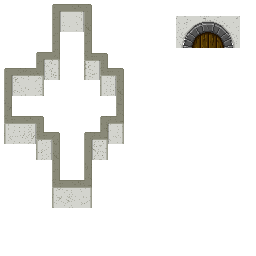
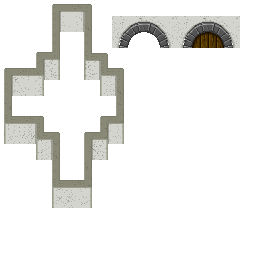
link system: bug fixes, added linked wooden door for stucco house

Changed region(s): [[0.4375, 0.0625, 0.6875, 0.1875]]

diff --git a/js/worldGen.js b/js/worldGen.js
@@ -2744,7 +2744,7 @@ class WorldGen {
     static house2 = {
         tag: "house2",
         columns: 12,
-        rows: 15,
+        rows: 17,
         offx: 20,
         offy: 10,
         autoArea: true,
@@ -2755,19 +2755,24 @@ class WorldGen {
                     "0000","0000","0000","0000","0000","0000","0000","0000","0000","0000","0000","0000",
                     "0000","0000","0000","0000","0000","0000","0000","0000","0000","0000","0000","0000",
                     "0000","0000","0000","0000","0000","0000","0000","0000","0000","0000","0000","0000",
-                    "0004","0004","0004","0004","0004","0004","0004","0004","0004","0004","0004","0004",
-                    "0004","0004","0004","0004","0004","0004","0004","0004","0004","0004","0004","0004",
-                    "0004","0004","0004","0004","0004","0004","0004","0004","0004","0004","0004","0004",
-                    "0004","0004","0004","0004","0004","0004","0004","0004","0004","0004","0004","0004",
-                    "0004","0004","0004","0004","0004","0004","0004","0004","0004","0004","0004","0004",
-                    "0004","0004","0004","0004","0004","0004","0004","0004","0004","0004","0004","0004",
-                    "0004","0004","0004","0004","0004","0004","0004","0004","0004","0004","0004","0004",
-                    "0004","0004","0004","0004","0004","0004","0004","0004","0004","0004","0004","0004",
-                    "0004","0004","0004","0004","0004","0004","0004","0004","0004","0004","0004","0004",
-                    "0004","0004","0004","0004","0004","0004","0004","0004","0004","0004","0004","0004",
                     "0000","0000","0000","0000","0000","0000","0000","0000","0000","0000","0000","0000",
+                    "0000","0000","0000","0000","0000","0000","0000","0000","0000","0000","0000","0000",
+                    "0000","0000","0000","0000","0000","0000","0000","0000","0000","0000","0000","0000",
+                    "0004","0004","0004","0004","0004","0004","0004","0004","0004","0004","0004","0004",
+                    "0004","0004","0004","0004","0004","0004","0004","0004","0004","0004","0004","0004",
+                    "0004","0004","0004","0004","0004","0004","0004","0004","0004","0004","0004","0004",
+                    "0004","0004","0004","0004","0004","0004","0004","0004","0004","0004","0004","0004",
+                    "0004","0004","0004","0004","0004","0004","0004","0004","0004","0004","0004","0004",
+                    "0004","0004","0004","0004","0004","0004","0004","0004","0004","0004","0004","0004",
+                    "0004","0004","0004","0004","0004","0004","0004","0004","0004","0004","0004","0004",
+                    "0004","0004","0004","0004","0004","0004","0004","0004","0004","0004","0004","0004",
+                    "0004","0004","0004","0004","0004","0004","0004","0004","0004","0004","0004","0004",
+                    "0004","0004","0004","0004","0004","0004","0004","0004","0004","0004","0004","0004",
                 ],
                 bgo: [
+                    "0000","0000","0000","0000","0000","0000","0000","0000","0000","0000","0000","0000",
+                    "0000","0000","0000","0000","0000","0000","0000","0000","0000","0000","0000","0000",
+                    "0000","0000","0000","0000","0000","0000","0000","0000","0000","0000","0000","0000",
                     "0000","0000","0000","0000","0000","0000","0000","0000","0000","0000","0000","0000",
                     "0000","0000","0000","0000","0000","0000","0000","0000","0000","0000","0000","0000",
                     "0000","0000","0000","0000","0000","0000","0000","0000","0000","0000","0000","0000",
@@ -2782,23 +2787,24 @@ class WorldGen {
                     "0X2g","0000","0000","0000","0000","0000","0000","0000","0000","0000","0000","0X2f",
                     "0X2g","0000","0000","0000","0000","0000","0000","0000","0000","0000","0000","0X2f",
                     "0X2i","0X2d","0X2d","0X2d","0X2d","0X2d","0X2d","0X2d","0X2d","0X2d","0X2d","0X2h",
-                    "0000","0000","0000","0000","0000","0000","0000","0000","0000","0000","0000","0000",
                 ],
                 fg: [
                     "0000","0000","0000","0000","0000","0000","0000","0000","0000","0000","0000","0000",
                     "0000","0000","0000","0000","0000","0000","0000","0000","0000","0000","0000","0000",
                     "0000","0000","0000","0000","0000","0000","0000","0000","0000","0000","0000","0000",
-                    "0000","0X5a","0X5b","0X5b","0X5b","0X5b","0X5b","0X5b","0X5b","0X5b","0X5c","0000",
+                    "0000","0000","0000","0000","0000","0000","0000","0000","0000","0000","0000","0000",
+                    "0000","0000","0000","0000","0000","0000","0000","0000","0000","0000","0000","0000",
+                    "0000","0X6a","0X6b","0X6b","0X6b","0X6b","0X6b","0X6b","0X6b","0X6b","0X6c","0000",
+                    "0000","0X6d","0X6e","0X6e","0X6e","0X6e","0X6e","0X6e","0X6e","0X6e","0X6f","0000",
                     "0000","0X5d","0X5e","0X5e","0X5e","0X5e","0X5e","0X5e","0X5e","0X5e","0X5f","0000",
                     "0000","0X5g","0000","0000","0000","0000","0000","0000","0000","0000","0X5h","0000",
                     "0000","0X5g","0000","0000","0000","0o07","0000","0000","0o03","0000","0X5h","0000",
                     "0000","0X5g","0o04","0000","0000","0000","0000","0000","0000","0000","0X5h","0000",
                     "0000","0X5g","0000","0000","0000","0000","0000","0000","0o02","0000","0X5h","0000",
                     "0000","0X5g","0000","0c03","0000","0000","0000","0000","0000","0000","0X5h","0000",
-                    "0000","0X5g","0000","0000","0000","0000","0000","0000","0000","0000","0X5g","0000",
-                    "0000","0X5j","0X5b","0000","0000","0000","0000","0X5b","0X5b","0X5b","0X5i","0000",
+                    "0000","0X6j","0X6b","0000","0000","0000","0000","0X6b","0X6b","0X6b","0X6i","0000",
+                    "0000","0X6m","0X6e","0000","0000","0000","0000","0X6e","0X6e","0X6e","0X6l","0000",
                     "0000","0X5m","0X5e","0000","0o01","0000","0000","0X5e","0X5e","0X5e","0X5l","0000",
-                    "0000","0000","0000","0000","0000","0000","0000","0000","0000","0000","0000","0000",
                     "0000","0000","0000","0000","0000","0000","0000","0000","0000","0000","0000","0000",
                 ],
             },
@@ -2807,16 +2813,37 @@ class WorldGen {
                     "0000","0000","0000","0000","0000","0000","0000","0000","0000","0000","0000","0000",
                     "0000","0000","0000","0000","0000","0000","0000","0000","0000","0000","0000","0000",
                     "0000","0000","0000","0000","0000","0000","0000","0000","0000","0000","0000","0000",
-                    "0000","0X6a","0X6b","0X6b","0X6b","0X6b","0X6b","0X6b","0X6b","0X6b","0X6c","0000",
-                    "0000","0X6d","0X6e","0X6e","0X6e","0X6e","0X6e","0X6e","0X6e","0X6e","0X6f","0000",
-                    "0000","0X6g","0000","0000","0000","0000","0000","0000","0000","0000","0X6g","0000",
-                    "0000","0X6g","0000","0000","0000","0000","0000","0000","0000","0000","0X6g","0000",
-                    "0000","0X6g","0000","0000","0000","0000","0000","0000","0000","0000","0X6g","0000",
-                    "0000","0X6g","0000","0000","0000","0000","0000","0000","0000","0000","0X6g","0000",
-                    "0000","0X6g","0000","0000","0000","0000","0000","0000","0000","0000","0X6g","0000",
-                    "0000","0X6g","0000","0000","0000","0000","0000","0000","0000","0000","0X6g","0000",
-                    "0000","0X6j","0X6b","0000","0000","0000","0000","0X6b","0X6b","0X6b","0X6i","0000",
-                    "0000","0X6m","0X6e","0000","0000","0000","0000","0X6e","0X6e","0X6e","0X6l","0000",
+                    "0000","0000","0000","0000","0000","0000","0000","0000","0000","0000","0000","0000",
+                    "0000","0000","0000","0000","0000","0000","0000","0000","0000","0000","0000","0000",
+                    "0000","0000","0000","0000","0000","0000","0000","0000","0000","0000","0000","0000",
+                    "0000","0000","0000","0000","0000","0000","0000","0000","0000","0000","0000","0000",
+                    "0000","0000","0000","0000","0000","0000","0000","0000","0000","0000","0000","0000",
+                    "0000","0000","0000","0000","0000","0000","0000","0000","0000","0000","0000","0000",
+                    "0000","0000","0000","0000","0000","0000","0000","0000","0000","0000","0000","0000",
+                    "0000","0000","0000","0000","0000","0X6e","0X6e","0000","0000","0000","0000","0000",
+                    "0000","0000","0000","0000","0X6e","0X6e","0X6e","0X6e","0000","0000","0000","0000",
+                    "0000","0000","0000","0X6e","0X6e","0X6e","0X6e","0X6e","0X6e","0000","0000","0000",
+                    "0000","0000","0X6e","0000","0000","0000","0000","0X6e","0X6e","0X6e","0000","0000",
+                    "0000","0X6m","0X6e","0005","0000","0000","0000","0X6e","0X6e","0X6e","0X6l","0000",
+                    "0000","0000","0000","0000","0000","0000","0000","0000","0000","0000","0000","0000",
+                    "0000","0000","0000","0000","0000","0000","0000","0000","0000","0000","0000","0000",
+                ],
+                fgo: [
+                    "0000","0000","0000","0000","0000","0rla","0rra","0000","0000","0000","0000","0000",
+                    "0000","0000","0000","0000","0rla","0rlc","0rrb","0rra","0000","0000","0000","0000",
+                    "0000","0000","0000","0rla","0rlc","0rlf","0rrc","0rrb","0rra","0000","0000","0000",
+                    "0000","0000","0rla","0rlc","0rlf","0rlf","0rrc","0rrc","0rrb","0rra","0000","0000",
+                    "0000","0rla","0rlc","0rlf","0rlf","0rlf","0rrc","0rrc","0rrc","0rrb","0rra","0000",
+                    "0rla","0rlc","0rlf","0rlf","0rlf","0rlf","0rrc","0rrc","0rrc","0rrc","0rrb","0rra",
+                    "0rle","0rlf","0rlf","0rlf","0rlf","0rlf","0rrc","0rrc","0rrc","0rrc","0rrc","0rrd",
+                    "0rle","0rlf","0rlf","0rlf","0rlf","0rlf","0rrc","0rrc","0rrc","0rrc","0rrc","0rrd",
+                    "0rle","0rlf","0rlf","0rlf","0rlf","0rlf","0rrc","0rrc","0rrc","0rrc","0rrc","0rrd",
+                    "0rle","0rlf","0rlf","0rlf","0rlf","0rlo","0rrk","0rrc","0rrc","0rrc","0rrc","0rrd",
+                    "0rle","0rlf","0rlf","0rlf","0rlo","0rlr","0rrl","0rrk","0rrc","0rrc","0rrc","0rrd",
+                    "0rle","0rlf","0rlf","0rlo","0rlr","0000","0000","0rrl","0rrk","0rrc","0rrc","0rrd",
+                    "0rle","0rlf","0rlo","0rlr","0000","0000","0000","0000","0rrl","0rrk","0rrc","0rrd",
+                    "0rle","0rlo","0rlr","0000","0000","0000","0000","0000","0000","0rrl","0rrk","0rrd",
+                    "0rlq","0rlr","0000","0000","0000","0000","0000","0000","0000","0000","0rrl","0rrm",
                     "0000","0000","0000","0000","0000","0000","0000","0000","0000","0000","0000","0000",
                     "0000","0000","0000","0000","0000","0000","0000","0000","0000","0000","0000","0000",
                 ],

diff --git a/js/linkSystem.js b/js/linkSystem.js
@@ -7,8 +7,8 @@ import { System }               from "./base/system.js";
  */
 class LinkSystem extends System {
     cpre(spec) {
-        spec.iterateTTL = spec.iterateTTL || 200;
-        spec.fixedPredicate = spec.fixedPredicate || ((e) => e.srcLinkTag || e.dstLinkTag);
+        spec.iterateTTL = spec.iterateTTL || 0;
+        spec.fixedPredicate = spec.fixedPredicate || ((e) => (e.linkSrcTag || e.linkDstTag));
         super.cpre(spec);
     }
     cpost(spec) {
@@ -20,11 +20,12 @@ class LinkSystem extends System {
     // METHODS -------------------------------------------------------------
     iterate(ctx, e) {
         // handle source link
-        if (e.srcLinkTag) {
-            if (!e.srcLinkTag in this.states || this.states[e.gid] !== e.state) {
-                this.states[e.srcLinkTag] = e.state;
+        if (e.linkSrcTag) {
+            if (!e.linkSrcTag in this.states || this.states[e.linkSrcTag] !== e.state) {
+                if (this.dbg) console.log(`found link src: ${e} for tag: ${e.linkSrcTag}`);
+                this.states[e.linkSrcTag] = e.state;
                 // push state updates to links
-                targets = this.targets[e.srcLinkTag];
+                let targets = this.targets[e.linkSrcTag] || [];
                 for (const target of targets) {
                     target.state = e.state;
                     target.updated = true;
@@ -32,14 +33,17 @@ class LinkSystem extends System {
             }
         }
         // handle dest link
-        if (e.dstLinkTag) {
-            if (!e.dstLinkTag in this.targets) {
-                this.targets[e.dstLinkTag] = [];
+        if (e.linkDstTag) {
+            let targets = this.targets[e.linkDstTag];
+            if (!targets) {
+                targets = [];
+                this.targets[e.linkDstTag] = targets;
             }
-            if (!e in this.targets[e.dstLinkTag]) {
-                this.targets[e.dstLinkTag].push(e);
-                if (e.dstLinkTag in this.states) {
-                    e.state = this.states[e.dstLinkTag];
+            if (!targets.includes(e)) {
+                if (this.dbg) console.log(`found link dst: ${e} for tag: ${e.linkDstTag}`);
+                targets.push(e);
+                if (e.linkDstTag in this.states) {
+                    e.state = this.states[e.linkDstTag];
                 }
             }
         }

diff --git a/js/sparkAssets.js b/js/sparkAssets.js
@@ -284,7 +284,8 @@ class SparkAssets {
             ]},
 
             { src: "img/stuccoWalls2.png", loader: "Sheet", refs: [
-                {tag: "woodDoor.top", cls: "Sprite", width: 16*4, height: 16*2, x: 16*11, y: 16*1 },
+                {tag: "woodDoor.top.open", cls: "Sprite", width: 16*4, height: 16*2, x: 16*7, y: 16*1 },
+                {tag: "woodDoor.top.close", cls: "Sprite", width: 16*4, height: 16*2, x: 16*11, y: 16*1 },
             ]},
 
             { tag: "sparkbase", 
@@ -310,6 +311,15 @@ class SparkAssets {
                 animations: { 
                     [ModelState.close]: { cls: "Media", tag: "woodDoor.close" }, 
                     [ModelState.open]: { cls: "Media", tag: "woodDoor.open" }, 
+                },
+            },
+
+            { tag: "woodDoor.top", 
+                cls: "Animator", 
+                animations: { 
+                    [ModelState.idle]: { cls: "Media", tag: "woodDoor.top.close" }, 
+                    [ModelState.close]: { cls: "Media", tag: "woodDoor.top.close" }, 
+                    [ModelState.open]: { cls: "Media", tag: "woodDoor.top.open" }, 
                 },
             },
 
@@ -449,7 +459,7 @@ class SparkAssets {
             Templates.tile("002", "sand"),
             Templates.tile("003", "road"),
             Templates.tile("004", "brickFloor"),
-            Templates.tile("005", "woodDoor.top", { offx: 24, offy: -8}),
+            Templates.tile("005", "woodDoor.top", { offx: 24, offy: -8, linkDstTag: "woodDoor"}),
             Templates.tile("006", "roundBasket"),
             Templates.tile("008", "halfTable", {xxform: {dx:8}}),
             //Templates.tile("009", "crate", { xcollider: {} }),
@@ -566,6 +576,7 @@ class SparkAssets {
                 xopenSfx: { cls: "Media", tag: "doorOpening"}, 
                 xcloseSfx: { cls: "Media", tag: "doorClosing"}, 
                 xcollider: { offy: 24, width:48, height:24 }, 
+                linkSrcTag: "woodDoor",
             }),
 
             Templates.object("o02", "stool", "Chair", {

diff --git a/js/workstation.js b/js/workstation.js
@@ -38,7 +38,6 @@ class Workstation extends Model {
         this.closedCondition = spec.closedCondition || Condition.closed;
         // defaults to closed condition
         this.conditions.add(this.closedCondition);
-        console.log(`workstation spec: ${Fmt.ofmt(spec)}`);
     }
 
     get approaches() {
@@ -52,7 +51,6 @@ class Workstation extends Model {
     }
 
     dointeract(actor) {
-        console.log(this + " dointeract");
         if (this.conditions.has(this.occupiedCondition)) {
             if (actor.gid === this.actorId) this.leave(actor);
         } else {
@@ -61,7 +59,6 @@ class Workstation extends Model {
     }
 
     occupy(actor) {
-        console.log(`${this} occupy actor: ${actor}`);
         // update chair state
         this.conditions.add(this.occupiedCondition);
         this.offx = this.occupiedX;

diff --git a/js/spark.js b/js/spark.js
@@ -13,9 +13,9 @@ import { Atts }             from "./base/atts.js";
 import { TitleState }       from "./titleState.js";
 import { HungerSystem }     from "./hungerSystem.js";
 import { Config }           from "./base/config.js";
-import { DirtySystem } from "./dirtySystem.js";
-import { WorldOverrides } from "./worldOverrides.js";
-import { LinkSystem } from "./linkSystem.js";
+import { DirtySystem }      from "./dirtySystem.js";
+import { WorldOverrides }   from "./worldOverrides.js";
+import { LinkSystem }       from "./linkSystem.js";
 
 /** ========================================================================
  * Main Spark Game Specification and Setup

diff --git a/js/base/model.js b/js/base/model.js
@@ -62,6 +62,8 @@ class Model extends Gizmo {
         // -- link logic
         this.linkSrcTag = spec.linkSrcTag;
         if (!this.linkSrcTag) this.linkDstTag = spec.linkDstTag;
+        if (this.linkSrcTag) console.log(`created object ${this} w/ linkSrcTag: ${this.linkSrcTag}`);
+        if (this.linkDstTag) console.log(`created object ${this} w/ linkDstTag: ${this.linkDstTag}`);
     }
 
     // PROPERTIES ----------------------------------------------------------

diff --git a/js/door.js b/js/door.js
@@ -29,7 +29,6 @@ class Door extends Model {
         // -- approaches
         this.approachOffsets = spec.approachOffsets;
         this.exitOffsets = spec.exitOffsets;
-        console.log(`approachOffsets: ${this.approachOffsets} exitOffsets: ${this.exitOffsets}`);
         // -- sounds
         if (spec.xopenSfx) this.openSfx = Generator.generate(spec.xopenSfx);
         if (spec.xcloseSfx) this.closeSfx = Generator.generate(spec.xcloseSfx);

diff --git a/js/base/config.js b/js/base/config.js
@@ -19,9 +19,10 @@ class Config {
             AiPlanSystem: false,
             AiProcessSystem: false,
             AreaSystem: false,
-            DirtySystem: true,
+            DirtySystem: false,
+            LinkSystem: false,
             EQuerySystem: false,
-            HungerSystem: true,
+            HungerSystem: false,
             MediaLoader: false,
             MouseSystem: false,
             PathfindingSystem: false,

diff --git a/js/playState.js b/js/playState.js
@@ -259,7 +259,6 @@ class PlayState extends State {
         if (this.lastAction !== action) {
             // update z panel w/ new icon for given action
             let sketch = Generator.generate(PlayState.actionSketches[action]);
-            console.log(`assigning zpanel sketch: ${sketch}`);
             this.zPanel.sketch = sketch;
             this.lastAction = action;
             return true;
